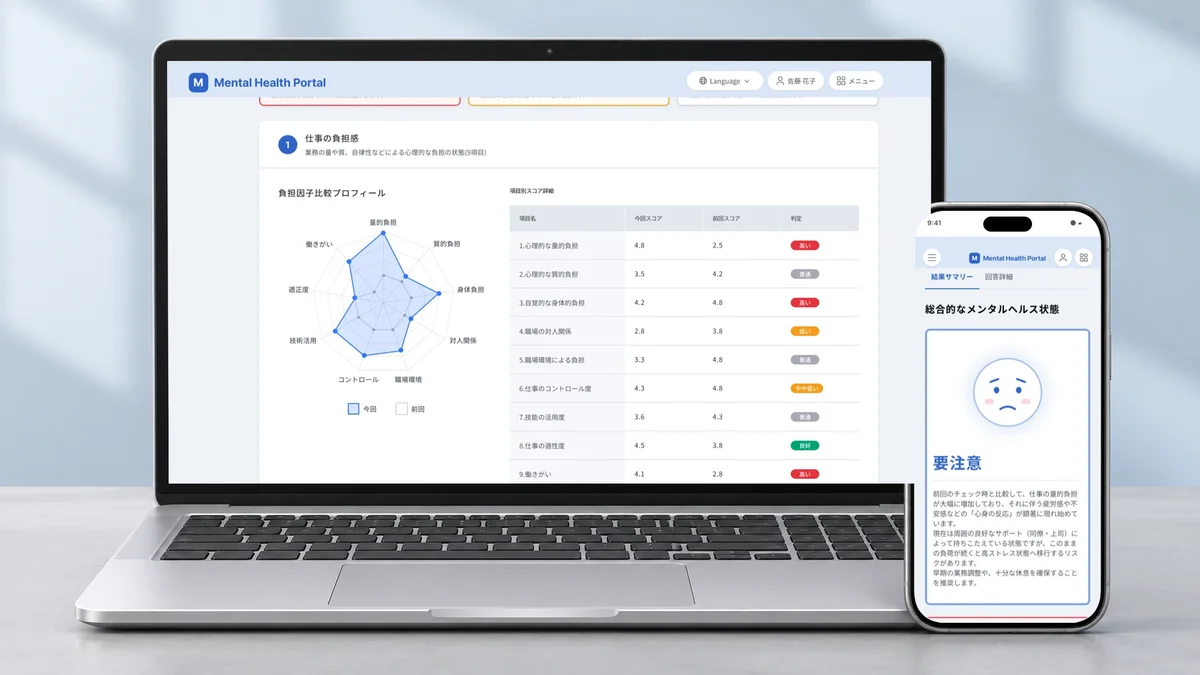
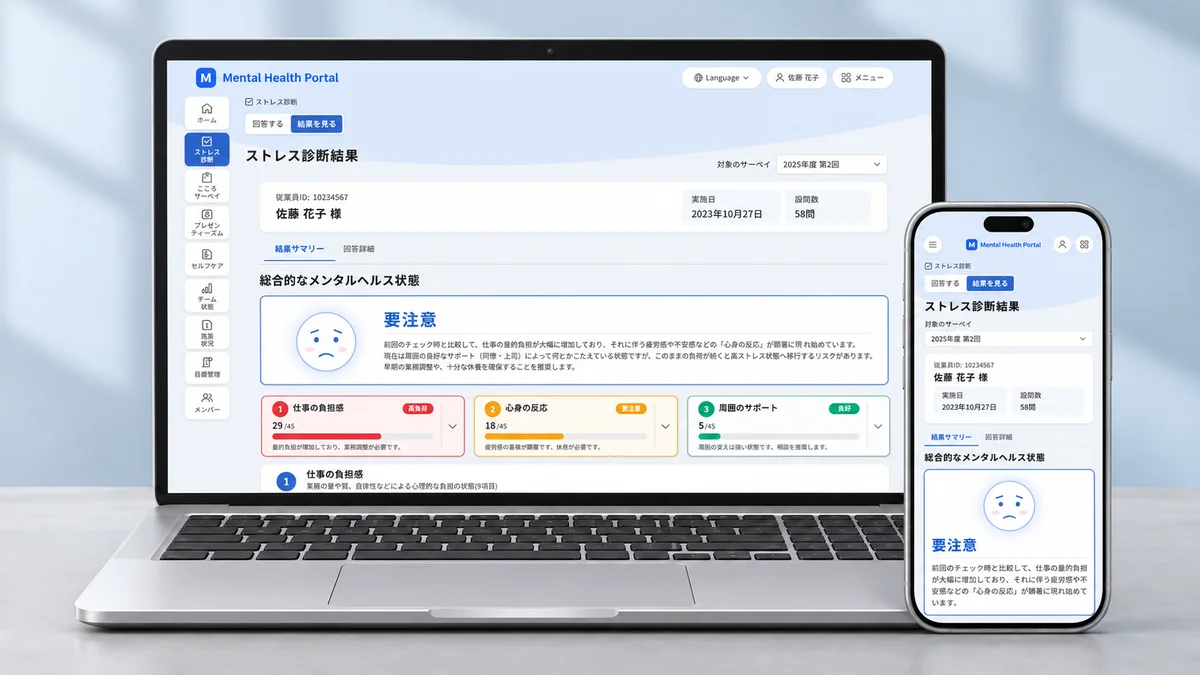
Web に「スタッフ管理ポータル」を追加し、トップページの見出しや文章を調整
- スタッフ管理ポータル: メイン画像と PC・SP 画面を追加
- メンタルヘルス管理システム: Overview の文章とメイン画像を差し替え
- Hero: 肩書きのタイピングアニメーションをやめ「DESIGNER & DEVELOPER」に固定
- About: 「大切にしていること」のサブタイトルを削除し、説明文を短く
- Skills: Tools・Certifications の上の余白をつめる
- How I Work: 見出しを小さくして中央寄せにし、色を「Hello, I'm」と同じに

diff --git a/src/data/projects.ts b/src/data/projects.ts
@@ -213,9 +213,9 @@ export const projects: Project[] = [
     title: "メンタルヘルス管理システム",
     subtitle: "Web / UI・UX Design",
     description:
-      "従業員のストレスチェック結果を、ひと目で把握できるように設計した管理画面です。",
+      "従業員のストレスチェックや各種サーベイの結果を確認する、メンタルヘルスケアシステムのUIデザインです。",
     longDescription:
-      "従業員向けメンタルヘルス管理システムの、ストレス診断結果画面のUIデザインです。\n\n総合判定を最上部に大きく示し、「仕事の負担感」「心身の反応」「周囲のサポート」の3つの観点をカードで要約しました。各観点はレーダーチャートで前回との比較を、表で項目ごとのスコアと判定を確認できるようにし、全体から詳細へと段階的に読み進められる構成にしています。",
+      "従業員のストレスチェックや各種サーベイの結果を確認する、メンタルヘルスケアシステムのUIデザインです。数値の多い結果画面を、利用者が自身の状態や変化を把握しやすいように設計しました。\n\n総合判定や主要な指標を画面上部にまとめ、全体の傾向から詳しい結果へと読み進められる構成にしています。項目ごとの比較には棒グラフ、時系列の変化には折れ線グラフなど、情報に合わせて表現を使い分けました。グラフで傾向をつかみ、表で具体的な数値を確認できるようにしています。\n\n清潔感のあるブルーを基調に、余白とカードで情報を整理しました。判定は色だけに頼らず、ラベルやアイコンも添えて伝えています。PC・スマートフォンそれぞれで情報の配置を調整し、画面サイズが変わっても結果を確認しやすいデザインにまとめました。",
     role: "UI・UX Designer",
     tech: ["UI/UX Design", "Figma"],
     gradient: "from-[#9b2c5a] via-[#a83660] to-[#c2456e]",
@@ -240,9 +240,9 @@ export const projects: Project[] = [
       title: "Mental Health Management System",
       subtitle: "Web / UI/UX Design",
       description:
-        "A dashboard designed so employees' stress check results can be understood at a glance.",
+        "UI design for a mental health care system where employees review the results of stress checks and other surveys.",
       longDescription:
-        "UI design for the stress check results screen of an employee mental health management system.\n\nThe overall assessment is shown prominently at the top, and three cards summarize the key areas: job strain, stress reactions, and support from others. For each area, a radar chart compares the results with the previous check and a table shows each item's score and rating, so the page reads step by step from the big picture to the details.",
+        "UI design for a mental health care system where employees review the results of stress checks and other surveys. I designed the number-heavy results screens so users can easily understand their own condition and how it has changed.\n\nThe overall assessment and key indicators are gathered at the top of the screen, so users can read from overall trends down to detailed results. Each kind of information gets a fitting format: bar charts for comparing items, line charts for changes over time. Charts show the trends, and tables give the specific numbers.\n\nA clean blue base, generous spacing, and cards keep the information organized. Ratings never rely on color alone; labels and icons accompany them. The layout is adjusted separately for desktop and smartphone, so results stay easy to check at any screen size.",
       role: "UI/UX Designer",
       roleBreakdown: [],
       challenges: [],
@@ -251,6 +251,41 @@ export const projects: Project[] = [
         { src: "/images/projects/mental-health-presenteeism-who-hpq.webp", title: "Presenteeism (WHO-HPQ)", width: 1600, height: 2376 },
         { src: "/images/projects/mental-health-wellbeing-survey.webp", title: "Wellbeing Survey", width: 1600, height: 2649 },
       ],
+    },
+  },
+  {
+    id: 8,
+    slug: "staff-portal",
+    title: "スタッフ管理ポータル",
+    subtitle: "Web / UI・UX Design",
+    description:
+      "応募者の管理と、入職までの手続きをまとめたスタッフ管理システムのUIデザインです。",
+    longDescription:
+      "応募者の管理と、入職までの手続きをまとめたスタッフ管理システムのUIデザインです。\n\n管理者向けのPC画面では、応募者の氏名・連絡先・来場情報・ステータスを一覧で確認でき、詳細や受注情報へすぐに移動できる構成にしました。ステータスは色付きのラベルで示し、対応状況をひと目で把握できるようにしています。\n\n応募者向けのスマートフォン画面では、入職までの手続きを4つのステップに分け、いま何をすればよいかが分かるマイページにまとめました。",
+    role: "UI・UX Designer",
+    tech: ["UI/UX Design", "Figma"],
+    gradient: "from-[#9b2c5a] via-[#a83660] to-[#c2456e]",
+    emoji: "&#x1F4CB;",
+    thumbnail: "/images/projects/staff-portal-thumbnail.webp",
+    preview: "/images/projects/staff-portal-preview.webp",
+    previewSp: { src: "/images/projects/staff-portal-sp.webp", width: 375, height: 812 },
+    duration: "",
+    team: "",
+    status: "Completed",
+    category: "work",
+    type: "web",
+    roleBreakdown: [],
+    challenges: [],
+    en: {
+      title: "Staff Management Portal",
+      subtitle: "Web / UI/UX Design",
+      description:
+        "UI design for a staff management system that brings together applicant management and the steps up to onboarding.",
+      longDescription:
+        "UI design for a staff management system that brings together applicant management and the steps up to onboarding.\n\nOn the desktop screen for administrators, applicants' names, contact details, visit information, and status are listed in one table, with quick access to their details and order information. Statuses are shown as colored labels so progress can be grasped at a glance.\n\nOn the smartphone screen for applicants, the steps up to onboarding are divided into four stages and gathered on a My Page that makes clear what to do next.",
+      role: "UI/UX Designer",
+      roleBreakdown: [],
+      challenges: [],
     },
   },
   {

diff --git a/src/i18n/messages.ts b/src/i18n/messages.ts
@@ -17,7 +17,6 @@ type Paragraph = Segment[];
 
 export type Messages = {
   hero: {
-    roles: string[];
     descriptionBefore: string;
     descriptionHighlight: string;
     descriptionAfter: string;
@@ -28,7 +27,7 @@ export type Messages = {
     selfIntroTitle: string;
     selfIntroParagraphs: Paragraph[];
     valuesTitle: string;
-    values: { label: string; title: string; description: string }[];
+    values: { label: string; description: string }[];
     careerLinkDescription: string;
   };
   skills: {
@@ -59,7 +58,6 @@ export type Messages = {
 export const messages: Record<Locale, Messages> = {
   ja: {
     hero: {
-      roles: ["UI/UX デザイナー", "フロントエンドエンジニア"],
       descriptionBefore:
         "デザインだけでなく、実装まで見据えた設計を大切にしています。\n見た目だけで終わらない、",
       descriptionHighlight: "「成果につながるクリエイティブ」",
@@ -97,26 +95,19 @@ export const messages: Record<Locale, Messages> = {
       values: [
         {
           label: "コミュニケーション",
-          title: "認識のズレをなくす対話",
-          description:
-            "言葉の裏にある意図もくみ取りながら、認識のズレが出ないように対話を大切にしています。",
+          description: "言葉の裏にある意図もくみ取り、認識のズレを防ぎます。",
         },
         {
           label: "リサーチ",
-          title: "ユーザーと競合から学ぶ",
-          description: "ユーザーや競合を見ながら、本当に必要なものは何かを考えています。",
+          description: "ユーザーや競合から、本当に必要なものを考えます。",
         },
         {
           label: "実行力",
-          title: "まず形にして検証する",
-          description:
-            "やってみると見えることも多いので、まず形にして、そこから磨いていくことを大切にしています。",
+          description: "まず形にして、そこから磨いていきます。",
         },
         {
           label: "成長",
-          title: "学び続け、より良いものへ",
-          description:
-            "変化に合わせて学び続けながら、より良い形にしていくことを大切にしています。",
+          description: "変化に合わせて学び続け、より良い形にしていきます。",
         },
       ],
       careerLinkDescription: "テスターから開発リードへ。4年間の成長軌跡。",
@@ -158,7 +149,6 @@ export const messages: Record<Locale, Messages> = {
   },
   en: {
     hero: {
-      roles: ["Product Manager", "UI/UX Designer", "Frontend Developer"],
       descriptionBefore:
         "I design with implementation in mind — not just how it looks, but how it works.\nI craft ",
       descriptionHighlight: "\"creative work that drives real outcomes,\"",
@@ -195,27 +185,19 @@ export const messages: Record<Locale, Messages> = {
       values: [
         {
           label: "COMMUNICATION",
-          title: "Aligning on what's truly meant",
-          description:
-            "I listen for the intent behind the words and work to keep everyone on the same page.",
+          description: "I read the intent behind the words to keep everyone aligned.",
         },
         {
           label: "RESEARCH",
-          title: "Learning from users and competitors",
-          description:
-            "I study both user behavior and the competitive landscape to find what really matters.",
+          description: "I look at users and competitors to find what really matters.",
         },
         {
           label: "EXECUTION",
-          title: "Ship first, refine next",
-          description:
-            "You see more once it's real. I build something tangible quickly, then iterate from there.",
+          description: "I build something real first, then refine it.",
         },
         {
           label: "GROWTH",
-          title: "Always learning, always improving",
-          description:
-            "I adapt as things change and keep pushing the work toward something better.",
+          description: "I keep learning and keep improving the work.",
         },
       ],
       careerLinkDescription: "From QA tester to dev lead — a four-year journey.",

diff --git a/src/components/Hero.tsx b/src/components/Hero.tsx
@@ -1,47 +1,8 @@
 "use client";
 
-import { useEffect, useState } from "react";
 import { motion, useScroll, useTransform } from "framer-motion";
 import Image from "next/image";
 import { useLocale } from "@/i18n/LocaleContext";
-
-function useTypingAnimation(texts: string[], typingSpeed = 70, deleteSpeed = 30, pauseTime = 2000) {
-  const [displayText, setDisplayText] = useState("");
-  const [textIndex, setTextIndex] = useState(0);
-  const [isDeleting, setIsDeleting] = useState(false);
-  const [isPaused, setIsPaused] = useState(false);
-
-  useEffect(() => {
-    if (isPaused) {
-      const pause = setTimeout(() => { setIsPaused(false); setIsDeleting(true); }, pauseTime);
-      return () => clearTimeout(pause);
-    }
-
-    const current = texts[textIndex];
-    let delay: number;
-
-    if (isDeleting) {
-      delay = deleteSpeed + Math.random() * 15;
-    } else {
-      delay = typingSpeed + Math.random() * 40;
-    }
-
-    const timeout = setTimeout(() => {
-      if (!isDeleting) {
-        const next = current.slice(0, displayText.length + 1);
-        setDisplayText(next);
-        if (next.length === current.length) setIsPaused(true);
-      } else {
-        const next = current.slice(0, displayText.length - 1);
-        setDisplayText(next);
-        if (next.length === 0) { setIsDeleting(false); setTextIndex((prev) => (prev + 1) % texts.length); }
-      }
-    }, delay);
-    return () => clearTimeout(timeout);
-  }, [displayText, isDeleting, isPaused, textIndex, texts, typingSpeed, deleteSpeed, pauseTime]);
-
-  return displayText;
-}
 
 const letterVariants = {
   hidden: { opacity: 0, y: 50, rotateX: -90 },
@@ -303,7 +264,6 @@ export default function Hero() {
   const { scrollYProgress } = useScroll();
   const opacity = useTransform(scrollYProgress, [0, 0.25], [1, 0]);
   const { m, locale } = useLocale();
-  const typedRole = useTypingAnimation(m.hero.roles);
   const line1 = "Hello, I'm";
   const line2 = "Munise Haruyama.";
   const homeHref = locale === "en" ? "/en" : "/";
@@ -377,7 +337,7 @@ export default function Hero() {
             </h1>
 
             <motion.div initial={{ opacity: 0, y: 20 }} animate={{ opacity: 1, y: 0 }} transition={{ duration: 0.8, delay: 1 }} className="mb-5">
-              <span className="text-base md:text-lg font-mono text-zinc-400">{">"} {typedRole}<span className="animate-pulse text-[#d4567e]">|</span></span>
+              <span className="text-base md:text-lg font-mono text-zinc-400">{">"} DESIGNER &amp; DEVELOPER</span>
             </motion.div>
 
             <motion.p initial={{ opacity: 0, y: 20 }} animate={{ opacity: 1, y: 0 }} transition={{ duration: 0.8, delay: 1.3 }} className="text-sm md:text-base text-zinc-500 max-w-xl leading-relaxed mb-8 whitespace-pre-line">

diff --git a/src/components/About.tsx b/src/components/About.tsx
@@ -87,7 +87,7 @@ export default function About() {
             <div className="grid gap-2">
               {m.about.values.map((value, index) => (
                 <motion.div
-                  key={value.title}
+                  key={value.label}
                   initial={{ opacity: 0, y: 20 }}
                   whileInView={{ opacity: 1, y: 0 }}
                   viewport={{ once: true, margin: "0px 0px -150px 0px" }}
@@ -97,7 +97,6 @@ export default function About() {
                   <div className="flex-shrink-0 mt-0.5">{valueIcons[index]}</div>
                   <div>
                     <p className="text-sm font-semibold text-[#a8305f] mb-1">{value.label}</p>
-                    <h4 className="text-zinc-900 text-sm font-bold mb-1">{value.title}</h4>
                     <p className="text-sm text-zinc-400">{value.description}</p>
                   </div>
                 </motion.div>

diff --git a/src/components/Process.tsx b/src/components/Process.tsx
@@ -22,12 +22,10 @@ export default function Process() {
           whileInView={{ opacity: 1, y: 0 }}
           viewport={view}
           transition={{ duration: 0.6 }}
-          className="mb-14 md:mb-24"
+          className="mb-14 md:mb-24 text-center"
         >
-          <h2 className="section-title text-5xl md:text-6xl font-black mb-2 pr-2">
-            <span className="gradient-text">How I Work</span>
-          </h2>
-          <p className="text-zinc-500 text-lg max-w-xl mt-2">{m.process.intro}</p>
+          <h2 className="section-title text-3xl md:text-4xl font-black text-zinc-900 mb-2">How I Work</h2>
+          <p className="text-zinc-500 text-lg max-w-xl mx-auto mt-2">{m.process.intro}</p>
         </motion.div>
 
         {/* タイムライン: スマホは左に縦線、PC は上に横線 */}

diff --git a/src/components/Skills.tsx b/src/components/Skills.tsx
@@ -85,7 +85,7 @@ export default function Skills() {
           whileInView={{ opacity: 1, y: 0 }}
           viewport={{ once: true, margin: "0px 0px -150px 0px" }}
           transition={{ duration: 0.6 }}
-          className="mt-14 mb-6"
+          className="mt-8 mb-6"
         >
           <h3 className="text-lg font-mono uppercase tracking-widest text-zinc-400">Tools</h3>
         </motion.div>
@@ -120,7 +120,7 @@ export default function Skills() {
           whileInView={{ opacity: 1, y: 0 }}
           viewport={{ once: true, margin: "0px 0px -150px 0px" }}
           transition={{ duration: 0.6 }}
-          className="mt-12 mb-4"
+          className="mt-8 mb-4"
         >
           <h3 className="text-lg font-mono uppercase tracking-widest text-zinc-400">Certifications</h3>
         </motion.div>
